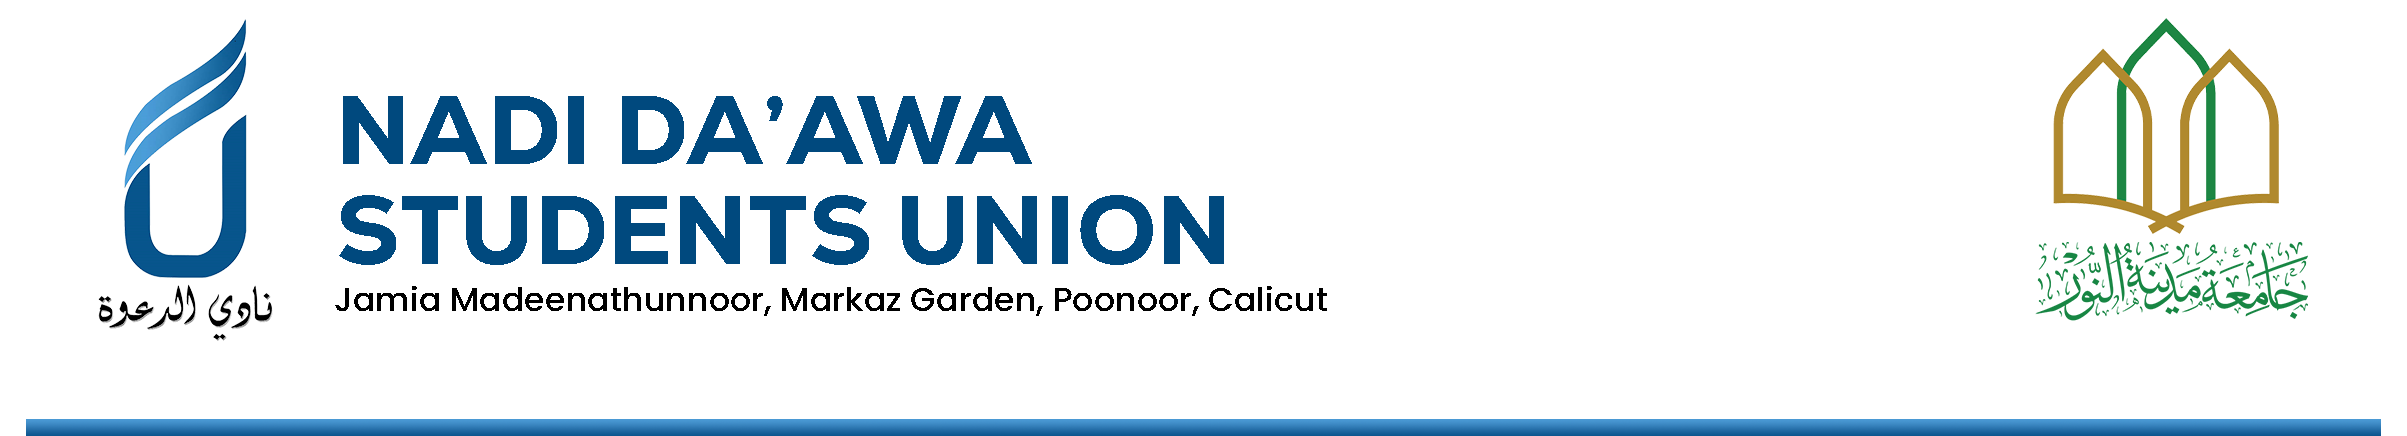
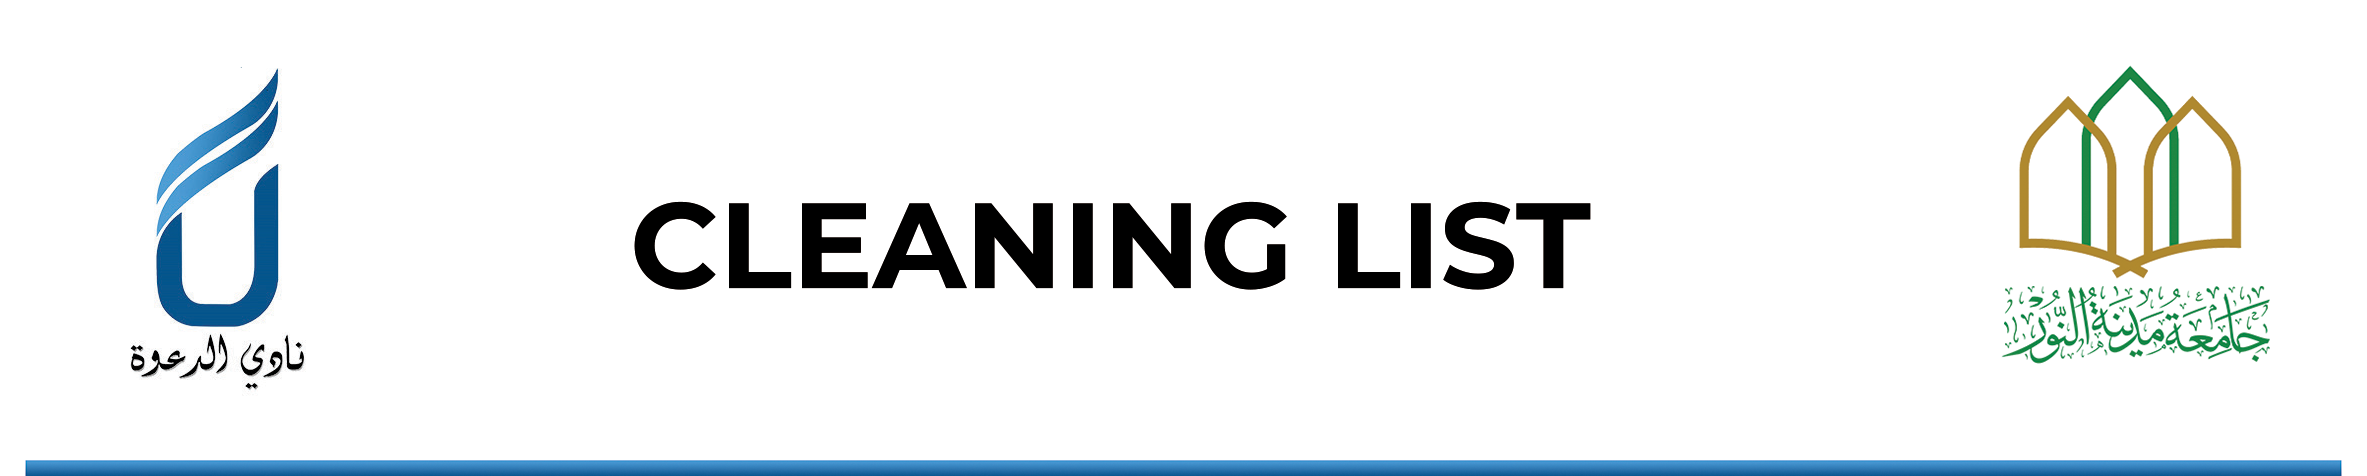
HEADER CHANGED

diff --git a/src/components/WelcomePage/WelcomePage.jsx b/src/components/WelcomePage/WelcomePage.jsx
@@ -26,15 +26,10 @@ function WelcomePage() {
       <div className='left-div'>
         <div className="wl-header">Cleaning Dashboard</div>
         <div className="collapsible-container">
-          <div className="header" onClick={toggleExpand}>
-            <h5 className='lt-s'>Excluded list</h5>
-           
-          </div>
+   
           
             <div className="content">
-              <span>Muhammed</span>
-              <span>2. Class Room</span>
-              <span>3. Class Room</span>
+    
             </div>
 
         </div>
@@ -91,6 +86,10 @@ function WelcomePage() {
               <span>3. Class Room</span>
             </div>
           )}
+                 <div className="header" onClick={toggleExpand}>
+            <h5 className='lt-s'>Excluded list</h5>
+           
+          </div>
         </div>
 
 
